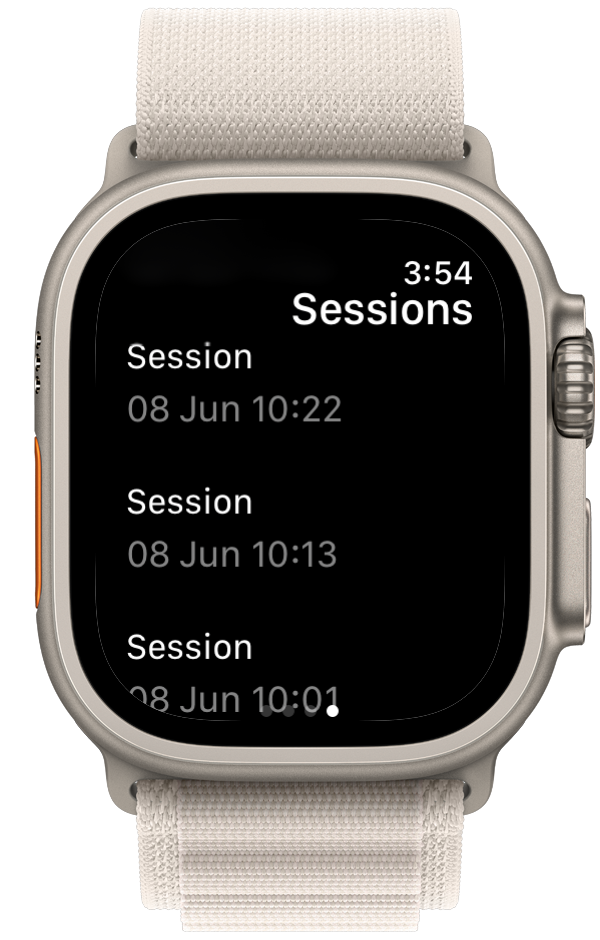
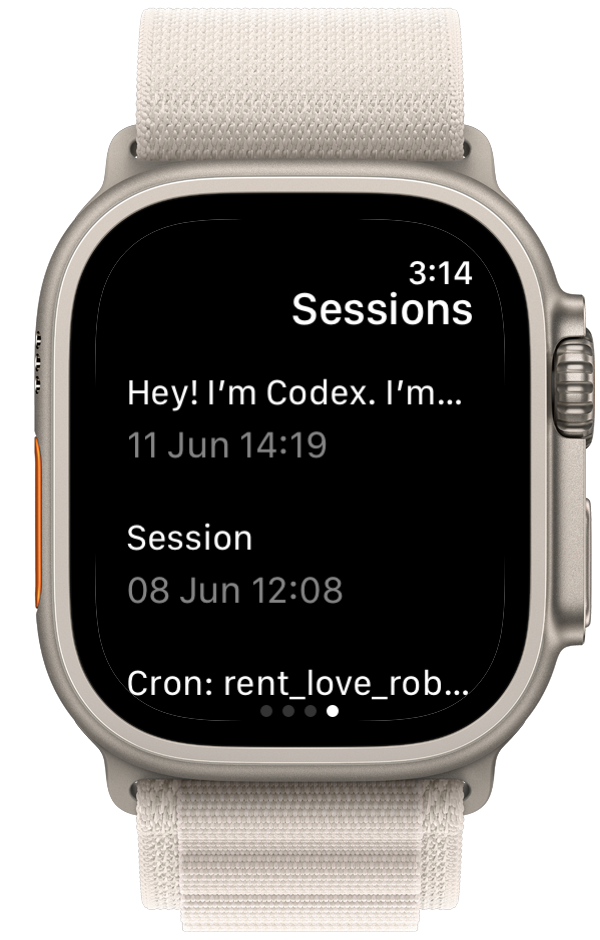
docs: add watch face and sessions screenshots to README
Place the complication entry point first and insert the sessions list after Agents in the user journey.

Changed region(s): [[0.21, 0.3394, 0.75, 0.6479], [0.21, 0.6787, 0.75, 0.7713], [0.66, 0.2777, 0.75, 0.3085]]

diff --git a/README.md b/README.md
@@ -9,6 +9,7 @@ Open Watch Agent is an AI wrist-first interface. It lets you manage your AI agen
 This is fully open-source
 
 <p>
+  <img src="docs/images/watch-face.png" width="220" alt="Open Watch complication on Apple Watch face">
   <img src="docs/images/watch-pair-iphone.png" width="220" alt="Pair on iPhone">
   <img src="docs/images/watch-speak.png" width="220" alt="Speak on Apple Watch">
   <img src="docs/images/watch-recording.png" width="220" alt="Recording on Apple Watch">
@@ -18,6 +19,7 @@ This is fully open-source
 <p>
   <img src="docs/images/watch-transcribing.png" width="220" alt="Transcribing on Apple Watch">
   <img src="docs/images/watch-agents.png" width="220" alt="Agents on Apple Watch">
+  <img src="docs/images/watch-sessions.png" width="220" alt="Sessions on Apple Watch">
   <img src="docs/images/watch-session-speak.png" width="220" alt="Replay message on Apple Watch">
   <img src="docs/images/watch-session-stop.png" width="220" alt="Stop replay on Apple Watch">
 </p>